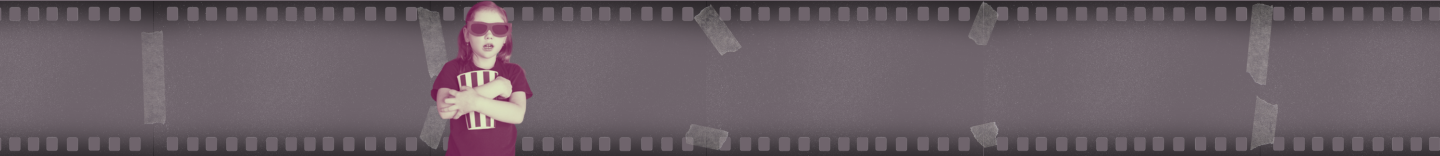
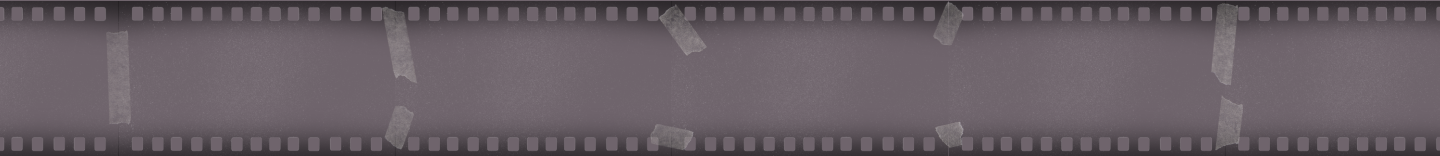
estilização

Changed region(s): [[0.0, 0.0, 1.0, 1.0]]

diff --git a/src/components/App.js b/src/components/App.js
@@ -1,7 +1,6 @@
 const App = async () => {
   let ul = document.createElement('ul');
   document.body.appendChild(ul);
-
   const options = {
     method: 'GET',
     headers: {
@@ -12,7 +11,7 @@ const App = async () => {
 
   try {
     // Obtém a resposta da API do TMDB
-    const response = await fetch('https://api.themoviedb.org/3/discover/movie?include_adult=true&include_video=false&language=pt-BR&page=1&sort_by=popularity.desc', options);
+    const response = await fetch('https://api.themoviedb.org/3/discover/movie?include_adult=true&include_video=false&language=pt-BR&page=1&sort_by=popularity.desc&year=1987', options);
     // Extrai o JSON da resposta e guarda os dados em uma variável
     const data = await response.json();
     // Obtém apenas os filmes (results) da resposta e exibe os títulos e datas de lançamento
@@ -43,55 +42,4 @@ const App = async () => {
   }
 };
 
-// Chama a função App para iniciar a busca e exibição dos filmes
-App();
-
 export default App;
-
-
-/* parecido com o view - ideia de componentes - um pedaço de interface - 
-aqui teremos que renderizar os filmes, usar o fetch - pegar os dados para printar na tela
-
-entendeu a estrutura, chama o endpoint pra renderizar. faz o teste unitário 
-
-Fetch Request TMDB
-header da requisição
-const options = {
-  method: 'GET',
-  headers: {
-    accept: 'application/json',
-    Authorization: 'Bearer eyJhbGciOiJIUzI1NiJ9.eyJhdWQiOiI1ZGZkNWQ0OWI4YzE0MmM2MjlmOTA2YzhiODliMjZkYiIsInN1YiI6IjY1ZjVhNjIxM2MzYWIwMDE3ZGQwMjc2YyIsInNjb3BlcyI6WyJhcGlfcmVhZCJdLCJ2ZXJzaW9uIjoxfQ.k66Yx9thwDS90B8OzFnrwz8EqkzRrf7od4SG1Ip7Dx4'
-  }
-};
-
-fetch('https://api.themoviedb.org/3/discover/movie?include_adult=true&include_video=false&language=pt-BR', options)
-  .then(response => response.json())
-  .then(response => console.log(response))
-  .catch(err => console.error(err));
-
-
-// Função async para buscar informações dos filmes
-
-
-// Executa a busca assim que o código for carregado
-fetchMovies(); chamar dentro do método principal
-
-// Cria um novo elemento HTML <div>. Você pode alterar o tipo de elemento se necessário.
-  const el = document.createElement('div');
-
-  // Define a classe CSS do elemento <div> como "App". Você pode alterar essa classe para estilizar o elemento de maneiras diferentes.
-  el.className = 'App';
-
-  // Define o texto dentro do elemento <div> como "Hola mundo!". Você pode alterar o texto conforme sua necessidade.
-  el.textContent = 'Hola mundo!';
-
-  // Retorna o elemento <div> configurado. Normalmente, você não precisa alterar essa linha.
-  return el;
-
-const movieElement = document.createElement('div');
-      movieElement.textContent = `${movie.title} (${movie.release_date})`;
-      document.body.appendChild(movieElement); // precisa retornar algo para usar no App.js. ao invés de dar append no body, dar append em uma div fora do for / montar o html e dar um return
-    
-
-
-*/

diff --git a/src/style.css b/src/style.css
@@ -1,30 +1,142 @@
-/* Configurações Gerais */
+/* Paleta de cores
+
+.verde-claro { #d1dab9 };
+.verde { #92bea5 };
+.grafite { #6f646c };
+.bordô { #671045 };
+.roxo { #31233e };
+
+/* Configurações Gerais - Mobile First */
 
 body{
     background-color:#31233e;
-    height:868px;
-    width:1440px;
     margin: 0;
+    text-decoration: none;
+    list-style-type: none;
 }
 
 /* Título e Cabeçalho */
-
 header{
     width: 100%;
-    height: auto;
+    height: 100%;
+    background-image: url(./assets/6F646C.png);
+    background-repeat: repeat;
+    display: flex;
 }
 
-.responsive-header{
-    width: 100%;
-    height: auto;
+.cabecalho {
+    align-self: center;
+    color: #92bea5;
+    font-size: 2.1rem;
+    text-shadow: 0 0 1px #fff, 0 0 2px #d1dab9, 0 0 6px #92bea5, 0 0 8px #6f646c, 0 0 10px #671045, 0 0 12px #31233e, 0 0 14px #292736;
+}
+
+a {
+    color: inherit;
+    text-decoration: none;
+}
+
+/* Lista */
+ul {
+  list-style-type: none;
+  margin-top: 140px;
+  padding: 0;
+  display: flex;
+  flex-direction: column;
+  justify-content: center;
+}
+
+.movie-list {
+    display: flex;
+    justify-content:space-around;
+    row-gap:40px;
 }
 
 /* Card */
+.movie-container {
+    background-color:#671045;
+    max-height:140px;
+    max-width:400px;
+    padding: 40px 250px;
+    box-shadow: 0px 4px 4px rgba(0,0,0,0.25);
+    border-radius:10px;
+    margin: 20px;
+}
+
+.movie-info{
+    height:150px;
+    width:800px;
+}
 
 /* Imagem */
-
+.movie-poster {
+    height:200px;
+    width:150px;
+    box-shadow: 0px 4px 4px rgba(0,0,0,0.25);
+    border-radius:5px;
+    display: inline-block;
+}
 
 /* Título e Ano */
-
+.title-year {
+    color:#d1dab9;
+    text-align:left;
+    vertical-align:text-top;
+    font-size:15px;
+    font-family:Arial, Helvetica, sans-serif;
+    line-height:auto;
+    border-style:hidden;
+    outline:none;
+    max-width:250px;
+    display: inline-block;
+}
 
 /* Popularidade */
+.popularity {
+
+}
+
+/* Footer */
+
+
+/* Configurações Gerais - Desktop */
+
+body{
+}
+
+/* Título e Cabeçalho */
+header{
+}
+
+.responsive-header{
+}
+
+/* Lista */
+ul {
+}
+
+.movie-list {
+}
+
+/* Card */
+.movie-container {
+}
+
+.movie-info{
+}
+
+
+/* Imagem */
+.movie-poster {
+}
+
+/* Título e Ano */
+.title-year {
+}
+
+/* Popularidade */
+.popularity {
+}
+
+/* Footer */
+

diff --git a/src/index.html b/src/index.html
@@ -7,7 +7,7 @@
   </head>
   <body>
     <header>
-      <img src="./assets/6F646C (1).png" href="./index.html" alt="cabeçalho" class="responsive-header"/>
+      <a href="index.html"><h1 class="cabecalho">1987</h1></a>
     </header>
     <div id="root"></div>
 
@@ -15,7 +15,6 @@
       <p>Desenvolvido por Débora "Nirvi" Viveiros para o bootcamp de Desenvolvimento Web da Laboratória. 2024</p>
       <img /> linkedin
       <img /> github
-
     </footer>
     <script src="main.js" type="module"></script>
   </body>
